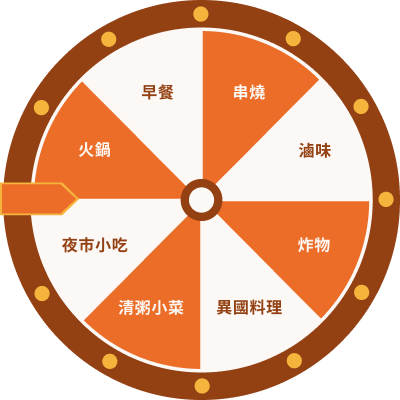
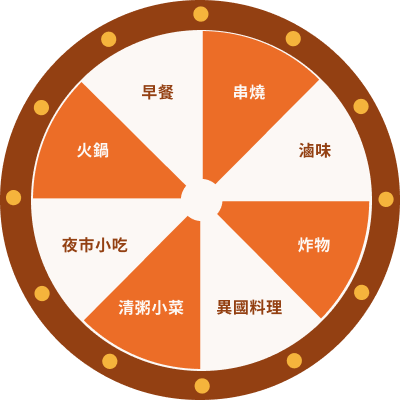
fix-spinwheel

diff --git a/pages/index.html b/pages/index.html
@@ -37,8 +37,9 @@
           <div class="modal-content bg-transparent border-0 shadow-none">
             <div class="grid min-h-screen place-content-center p-4 relative">
               <div class="w-full max-w-md rounded-lg bg-white p-6 dark:bg-bg border border-white/25 relative z-[1] shadow-[2px_2px_40px_rgba(255,255,255,0.1)]">
-                <div class="p-4 border-b border-white/25">
-                  <img src="/assets/images/SpinWheel.png" alt="SpinWheel" class="spin-target" />
+                <div class="p-4 border-b border-white/25 relative">
+                  <img src="/assets/images/SpinWheel.png" alt="SpinWheel" class="spin-target spin-active" />
+                  <img src="/assets/images/path10.png" alt="SpinWheel" class="absolute top-50 bottom-50 left-0" />
                 </div>
                 <footer class="p-4 flex justify-center">
                   <button type="button" data-bs-dismiss="modal" class="inline-block text-white py-3 px-12 border border-white/40 rounded-[100px] bg-neutral-400 hover:bg-primary-1/70 hover:shadow-[0_0_20px_rgba(236,109,39,0.6),0_0_40px_rgba(125,125,125,0.3)]">關閉</button>

diff --git a/assets/all.css b/assets/all.css
@@ -77,13 +77,16 @@
     transform: rotate(0deg);
   }
   to {
-    transform: rotate(720deg);
-  } /* 兩圈，看起來比較明顯 */
+    transform: rotate(680deg);
+  }
 }
 
-/* 當 modal 開啟（.show）時，讓圖轉 2 秒 */
-.modal.show .spin-target {
-  animation: spin2s 2s ease-in-out;
+.spin-target {
+  transform-origin: center center;
+}
+
+.spin-active {
+  animation: spin2s 2s ease-in-out forwards;
 }
 
 @utility no-scrollbar {
